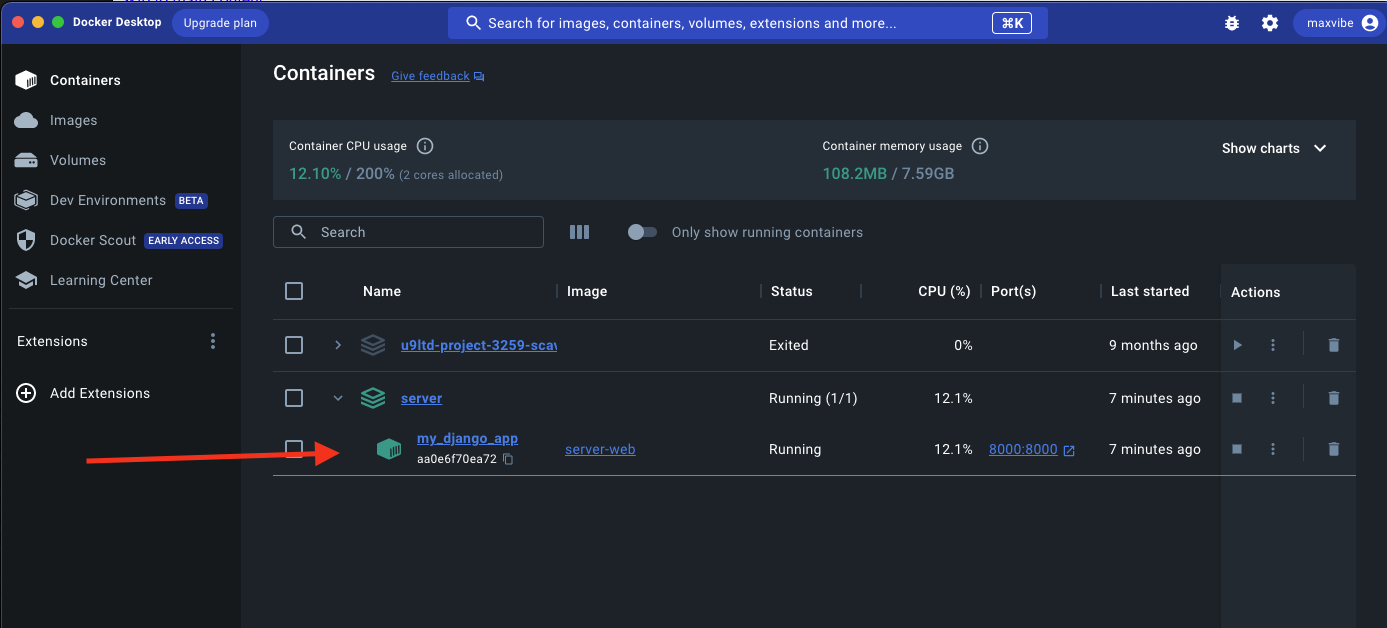
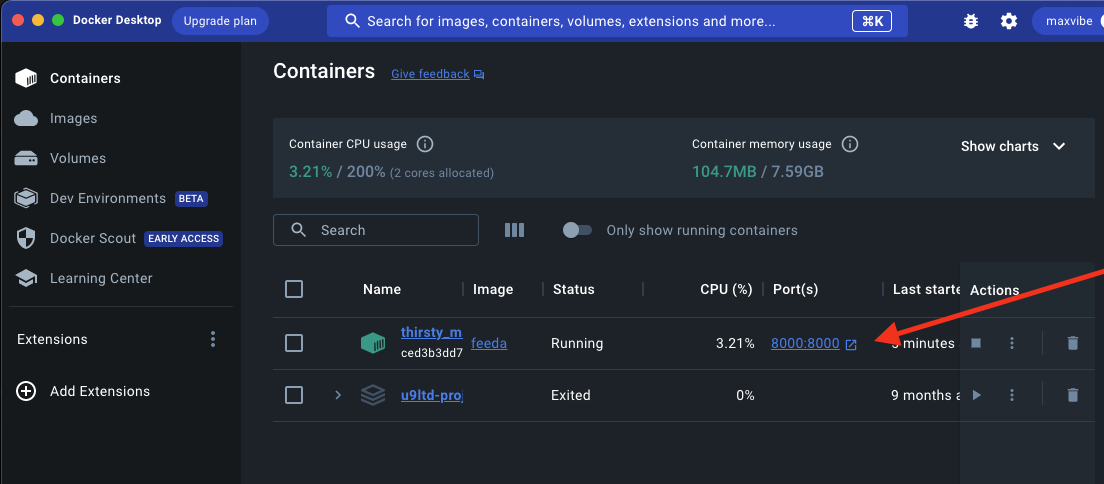
fix: workable dockerfile, change readme

diff --git a/README.md b/README.md
@@ -4,29 +4,25 @@
 
 2. Go to the server directory `cd server`
 
-3. Tape in command line (Terminal) `docker-compose up`, if not working `docker compose up`
+3. Enter in terminal command `docker build -t feeda .`
+4. Then enter `docker run -p 8000:8000 feeda`
 
-4. Go to Docker Desktop and open `my-django-app` in `server`
+5. Go to Docker Desktop and click on container with port 8000:8000
    ![Screenshot](docker.png)
 
-5. Then go to the terminal
+6. Go to the terminal
    ![Screenshot](docker-terminal.png)
-
-6. Make migrations by 2 commands:
-
-- `python manage.py makemigrations`
-- `python manage.py migrate`
 
 7. Then create superuser (it will be our admin for DB usage):
 
 - `python manage.py createsuperuser`
-  - add email Email:[random@eamail.com]
+  - add email Email:[random@email.com]
   - add pass Password:[random pass] (while pasting, the pass will not appear, коли вводиш пароль не відображається)
 - if you see the message `Bypass password validation and create user anyway? [y/N]: y` - just paste `y`
 
-8. Go to web and login just created superuser
+7. Go to `http://localhost:8000/admin` and login just created superuser
    ![Screenshot](go-to-localweb.png)
 
-9. Use API as `http://localhost:8000/`
+8. Use API as `http://localhost:8000/[endpoint]`
 
-10. After all this steps are done, next time you don't have to do them, just start docker server from Docker Desktop, that's will be enougth.
+9. After all this steps are done, next time you don't have to do them, just start docker server from Docker Desktop, that will be enougth.
